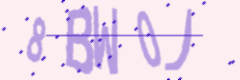
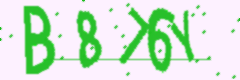
Login Functionality with authentication added

diff --git a/SecureFileSystem/FileApp/templates/FileApp/Login.html b/SecureFileSystem/FileApp/templates/FileApp/Login.html
@@ -4,10 +4,48 @@
     <meta charset="UTF-8">
     <meta name="viewport" content="width=device-width, initial-scale=1.0">
     <title>Login</title>
+    <link href="https://cdn.jsdelivr.net/npm/bootstrap@5.3.1/dist/css/bootstrap.min.css" rel="stylesheet" integrity="sha384-4bw+/aepP/YC94hEpVNVgiZdgIC5+VKNBQNGCHeKRQN+PtmoHDEXuppvnDJzQIu9" crossorigin="anonymous">
+    <script src="https://cdn.jsdelivr.net/npm/bootstrap@5.3.1/dist/js/bootstrap.bundle.min.js" integrity="sha384-HwwvtgBNo3bZJJLYd8oVXjrBZt8cqVSpeBNS5n7C8IVInixGAoxmnlMuBnhbgrkm" crossorigin="anonymous"></script>
+    <script src="https://code.jquery.com/jquery-3.7.0.min.js" integrity="sha256-2Pmvv0kuTBOenSvLm6bvfBSSHrUJ+3A7x6P5Ebd07/g=" crossorigin="anonymous"></script>
+
 </head>
 <body>
     <h1 class="text-center">
         Login Page
     </h1>
+
+    <div class="container">
+        <form method="POST" novalidate>
+            {% csrf_token %}
+            <div class="form-group">
+              <label for="Feedback_Email" class="form-label">Email</label>
+              {{form.username}}
+            </div>
+            <div class="form-group">
+              <label for="Feedback_Email" class="form-label">Password</label>
+              {{form.password}}
+            </div>
+
+              <!-- Captcha input -->
+              <div class="form-outline mb-4 mt-2">
+                <div class="row">
+                  <div class="col-sm-12 col-lg-5">
+                    <label class="mb-1 fs-5 fw-semibold px-1" for="inputCaptcha">Captcha</label>
+                    {{form.captcha_input}}
+                    {{form.captcha_hidden}}
+                  </div>
+                  <div class="col-sm-12 col-lg-5 mt-2">
+                    <img class="img-fluid" src='/media/captcha_images/CAPTCHA.png' alt="Captcha" id="captcha-img" width="220">
+                    <i class="fa fa-refresh fa-lg m-2" aria-hidden="true" id="refresh_button"></i>
+                    <!-- <i class="fa-solid fa-volume-high" name="speaker" onclick="readaudio()"></i> -->
+                  </div>
+                </div>
+              </div>
+
+            <div class=" mt-3">
+              <button class="btn btn-primary btn-lg">Login</button>
+            </div>
+          </form>
+    </div>
 </body>
 </html>

diff --git a/SecureFileSystem/FileApp/templates/FileApp/Dashboard.html b/SecureFileSystem/FileApp/templates/FileApp/Dashboard.html
@@ -1,0 +1,15 @@
+<!DOCTYPE html>
+<html lang="en">
+<head>
+    <meta charset="UTF-8">
+    <meta name="viewport" content="width=device-width, initial-scale=1.0">
+    <title>Dashboard</title>
+</head>
+<body>
+
+    <h1 class="text-center">
+        Dashboard
+    </h1>
+    
+</body>
+</html>

diff --git a/SecureFileSystem/FileApp/validate.py b/SecureFileSystem/FileApp/validate.py
@@ -6,7 +6,7 @@ from datetime import *
 
 
 def validate_registerform(self):
-    print("Calling Validate Reister Form class .....")
+    print("Calling Validate Register Form class .....")
     register_user_name = self.cleaned_data.get('email')
     register_original_password = self.cleaned_data.get('original_password')
     register_confirm_password = self.cleaned_data.get('confirm_password')
@@ -14,11 +14,28 @@ def validate_registerform(self):
     register_captcha_input = self.cleaned_data.get('captcha_input')
 
     print("Validate.py File : Register User Name --- ", register_user_name)
-    print("Validate.py File : Register Original Password --- ", register_original_password)
-    print("Validate.py File : Register Confirm Password --- ", register_confirm_password)
-    print("Validate.py File : Register Hidden Captch Input  --- ", register_captcha_hidden)
-    print("Validate.py File : Register Captch Input --- ", register_captcha_input)
+    # print("Validate.py File : Register Original Password --- ", register_original_password)
+    # print("Validate.py File : Register Confirm Password --- ", register_confirm_password)
+    # print("Validate.py File : Register Hidden Captch Input  --- ", register_captcha_hidden)
+    # print("Validate.py File : Register Captch Input --- ", register_captcha_input)
 
 
     print("Validate.py File : Register validations passed : Returning clean data ---")
     return self.cleaned_data
+
+
+def validate_login_form(self):
+    print("Calling Validate Login Form class .....")
+    login_username = self.cleaned_data.get('username')
+    login_password = self.cleaned_data.get('password')
+    login_captcha_hidden = self.cleaned_data.get('captcha_hidden')
+    login_captcha_input = self.cleaned_data.get('captcha_input')
+
+    print("Validate.py File : Login User Name --- ", login_username)
+    # print("Validate.py File : Login password --- ", login_password)
+
+    print("Validate.py File : Login validations passed : Returning clean data ---")
+    return self.cleaned_data
+
+
+

diff --git a/SecureFileSystem/FileApp/views.py b/SecureFileSystem/FileApp/views.py
@@ -112,5 +112,45 @@ def user_activate_view(request,uid64,token):
         return render(request,'FileApp/Registeration_form.html')
     
 def login_view(request):
-    return render(request,'FileApp/Login.html')
+    if request.method == 'POST':
+        form = LoginForm(request.POST)
+        if form.is_valid():
+            username = form.cleaned_data['username']
+            password = form.cleaned_data['password']
+
+            print("username : " + username + " password : " + password)
+
+            try:
+                if User.objects.filter(username=username,is_active=False):
+                    print("User is not acive...")
+                else:
+                    user = authenticate(username=username,password=password)
+                    print(user)
+                    if user is not None:
+                        login(request,user)
+                        return redirect('dashboard')
+                    else:
+                        print("User Credentials Incorrect ....")
+            except:
+                print("Something went Wrong Try login Again")
+        else:
+            print("Form is invalid")
+            captcha_value = random_captcha_generator()
+            captcha_img_generator(captcha_value)
+            form.data['captcha_input'] = ''
+            form.data['captcha_hidden'] = make_password(captcha_value)
+    else:
+        form = LoginForm()
+        captcha_value = random_captcha_generator()
+        captcha_img_generator(captcha_value)
+        print("captcha value ", captcha_value)
+        form.fields['captcha_hidden'].initial = make_password(captcha_value)
+
+    return render(request,'FileApp/Login.html',{'form':form})
+
+
+def dashboard_view(request):
+    return render(request,'FileApp/Dashboard.html')
+
+
 

diff --git a/SecureFileSystem/FileApp/forms.py b/SecureFileSystem/FileApp/forms.py
@@ -1,5 +1,5 @@
 from django import forms
-from .validate import validate_registerform
+from .validate import validate_registerform,validate_login_form
 
 class RegisterForm(forms.Form):
     email = forms.CharField(max_length=320,required=True,widget=forms.TextInput(attrs={'class':'form-control','placeholder':'Enter Email Address','autocomplete':'off'}))
@@ -12,3 +12,17 @@ class RegisterForm(forms.Form):
     def clean(self):
         super(RegisterForm,self).clean()
         validate_registerform(self)
+
+class LoginForm(forms.Form):
+    username = forms.EmailField(max_length=320, required=True,widget=forms.TextInput(attrs={'class':'form-control','id':'inputEmail','placeholder':"Enter Email",'autocomplete':'off'}))
+    password = forms.CharField(required=True,strip=True,widget=forms.PasswordInput(attrs={'class':'form-control','id':'inputPassword','placeholder':'Enter Password','name':'password'}))
+
+    captcha_hidden = forms.CharField(widget=forms.HiddenInput(), required="False")
+    captcha_input = forms.CharField(max_length=5, required=True, widget=forms.TextInput(
+        attrs={'class': 'form-control', 'id': 'inputCaptcha', 'placeholder': 'Enter Captcha', 'name': 'captcha'}))
+    
+    def clean(self):
+        print("FORMS.PY FILE : CLEAN METHOD CALLING")
+        # data is feteched using the super function of django
+        super(LoginForm, self).clean()
+        validate_login_form(self)

diff --git a/SecureFileSystem/FileApp/urls.py b/SecureFileSystem/FileApp/urls.py
@@ -10,5 +10,6 @@ urlpatterns = [
     path('',views.index),
     path('register',views.regiter_view,name='register_view'),
     path('activate/<uid64>/<token>',views.user_activate_view,name='user_activate'),
-    path('login',views.login_view,name='login')
+    path('login',views.login_view,name='login'),
+    path('dashboard',views.dashboard_view,name='dashboard'),
 ]
